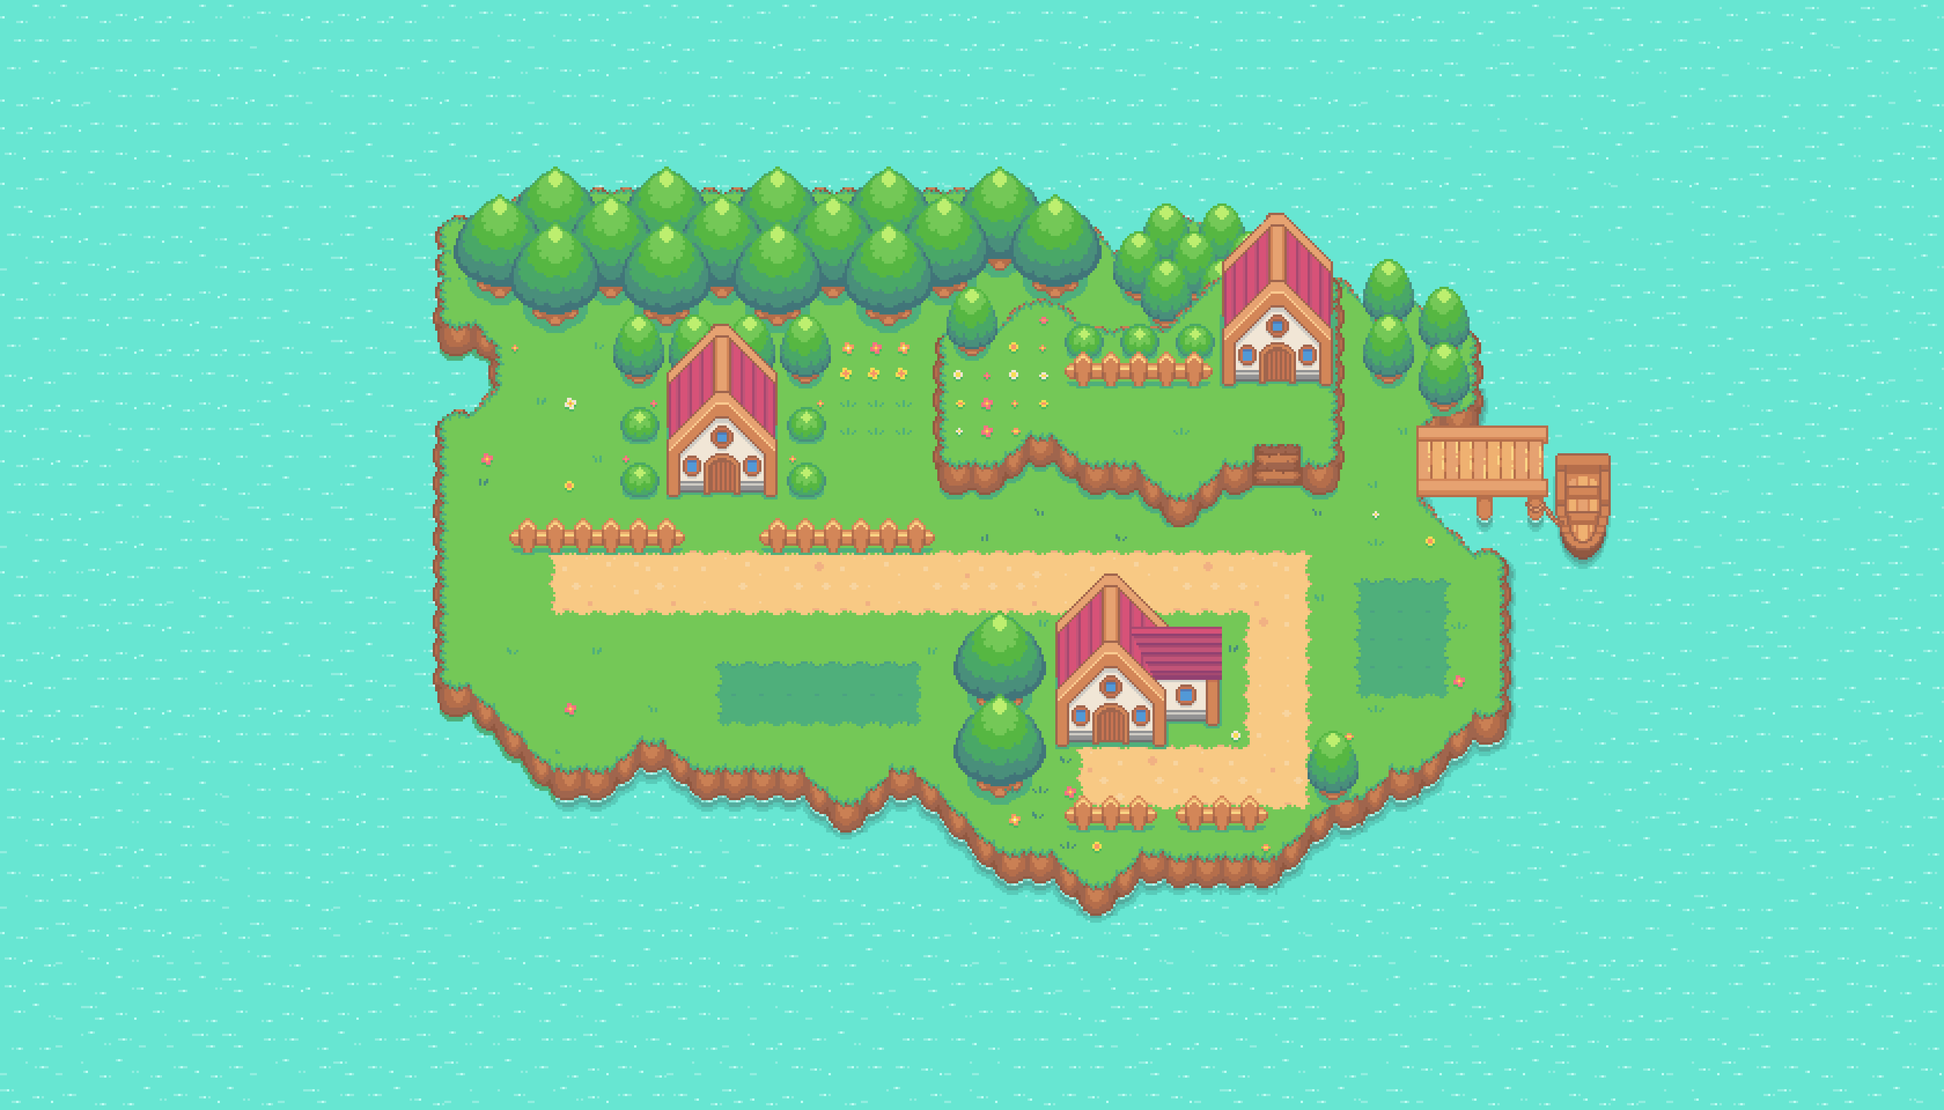
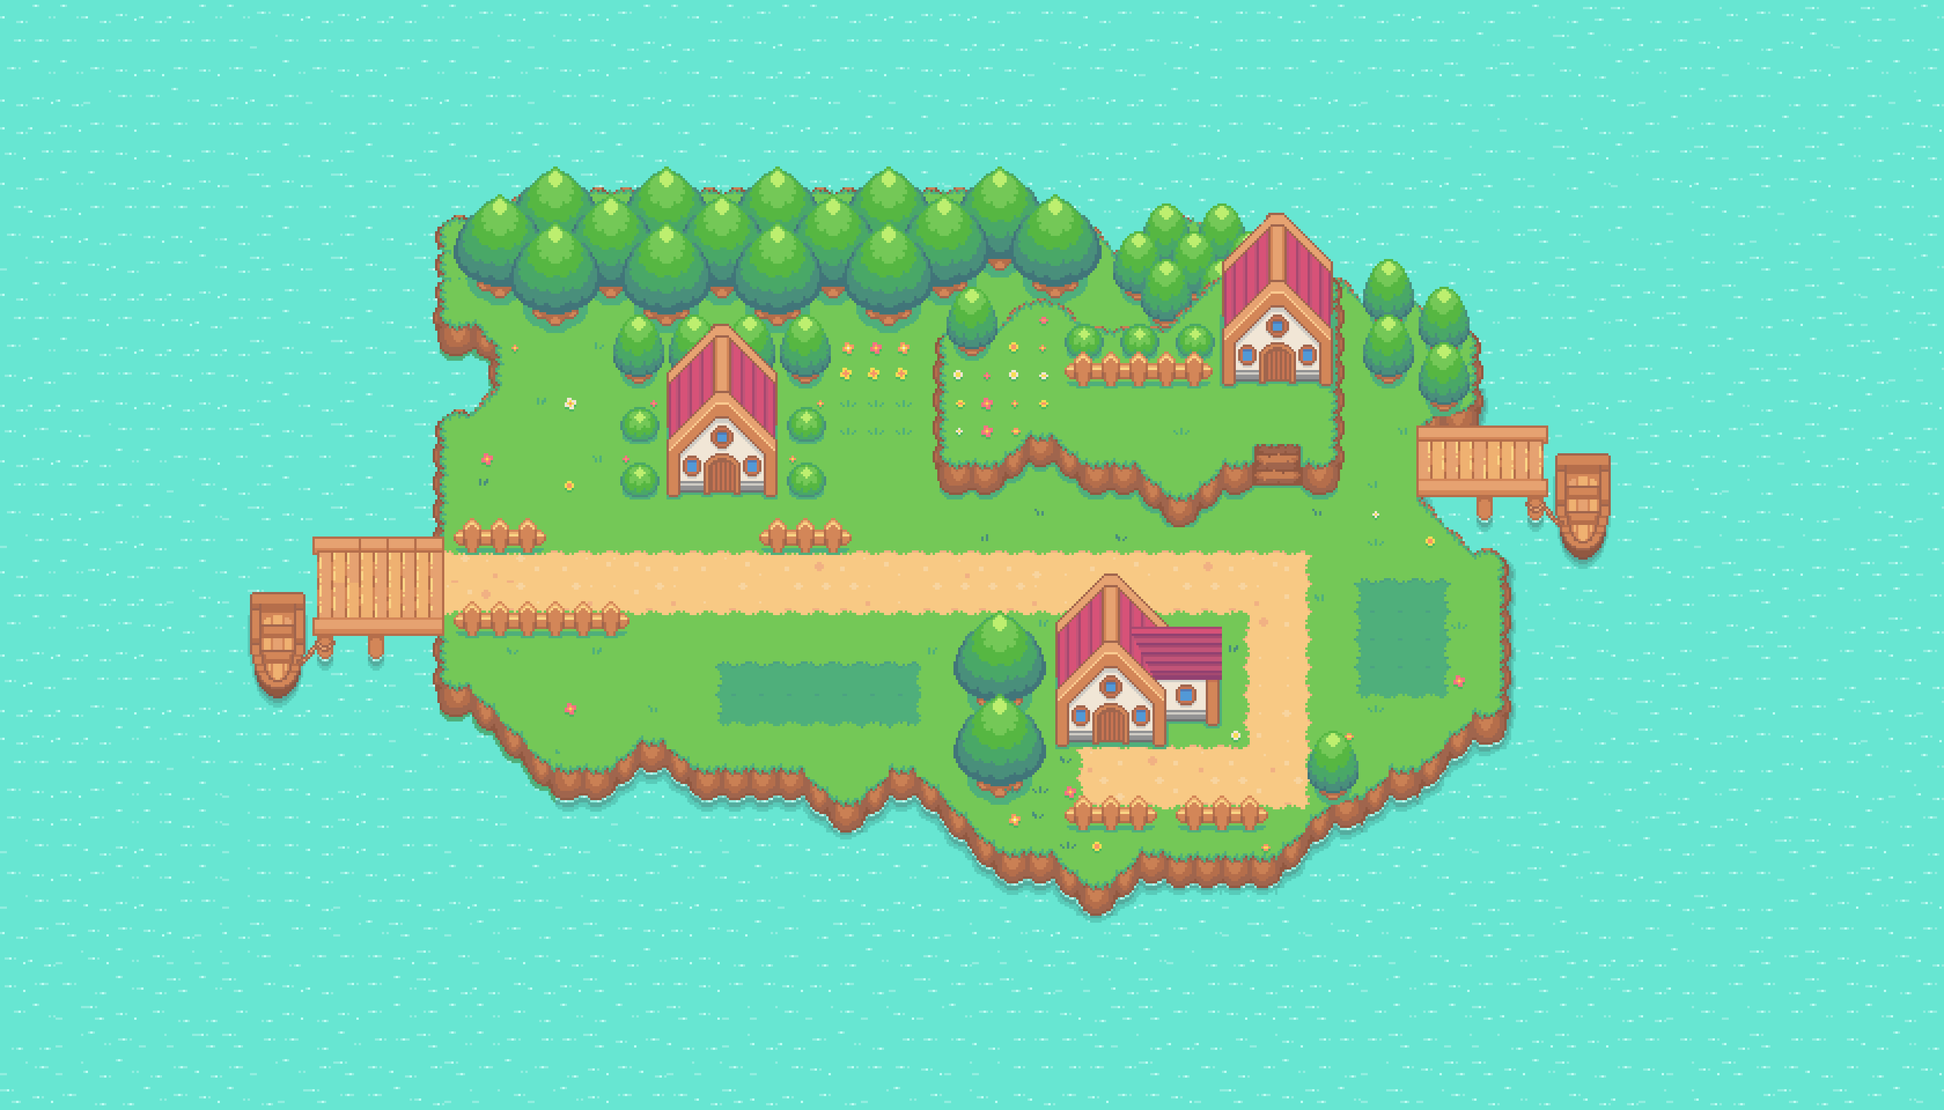
player moved to the dock

Changed region(s): [[0.125, 0.4688, 0.375, 0.6562], [0.4375, 0.4688, 0.5, 0.5]]

diff --git a/data/collisions.js b/data/collisions.js
@@ -1,1 +1,40 @@
-const collisions = [0, 0, 0, 0, 0, 0, 0, 0, 0, 0, 0, 0, 0, 0, 0, 0, 0, 0, 0, 0, 0, 0, 0, 0, 0, 0, 0, 0, 0, 0, 0, 0, 0, 0, 0, 0, 0, 0, 0, 0, 0, 0, 0, 0, 0, 0, 0, 0, 0, 0, 0, 0, 0, 0, 0, 0, 0, 0, 0, 0, 0, 0, 0, 0, 0, 0, 0, 0, 0, 0, 0, 0, 0, 0, 0, 0, 0, 0, 0, 0, 0, 0, 0, 0, 0, 0, 0, 0, 0, 0, 0, 0, 0, 0, 0, 0, 0, 0, 0, 0, 0, 0, 0, 0, 0, 0, 0, 0, 0, 0, 0, 0, 0, 0, 0, 0, 0, 0, 0, 0, 0, 0, 0, 0, 0, 0, 0, 0, 0, 0, 0, 0, 0, 0, 0, 0, 0, 0, 0, 0, 0, 0, 0, 0, 0, 0, 0, 0, 0, 0, 0, 0, 0, 0, 0, 0, 0, 0, 0, 0, 0, 0, 0, 0, 0, 0, 0, 0, 0, 0, 0, 0, 0, 0, 0, 0, 0, 0, 0, 0, 0, 0, 0, 0, 0, 0, 0, 0, 0, 0, 0, 0, 0, 0, 0, 0, 0, 0, 0, 0, 0, 0, 0, 0, 0, 0, 0, 0, 0, 0, 0, 0, 0, 0, 0, 0, 0, 0, 0, 0, 0, 0, 0, 0, 0, 0, 0, 0, 0, 0, 0, 0, 0, 0, 0, 0, 0, 0, 0, 0, 0, 0, 0, 0, 0, 0, 0, 0, 0, 0, 0, 0, 0, 0, 0, 0, 0, 0, 0, 0, 0, 0, 0, 0, 0, 0, 0, 0, 0, 0, 0, 0, 0, 0, 0, 0, 0, 0, 0, 0, 0, 0, 0, 0, 0, 0, 0, 0, 0, 0, 0, 0, 0, 0, 0, 0, 0, 0, 0, 0, 0, 0, 0, 0, 0, 0, 0, 0, 0, 0, 0, 0, 0, 0, 0, 0, 0, 0, 0, 0, 0, 0, 0, 0, 0, 0, 0, 0, 0, 0, 0, 0, 0, 0, 0, 0, 0, 0, 0, 0, 0, 0, 0, 0, 0, 0, 0, 0, 0, 0, 0, 0, 0, 0, 0, 0, 0, 0, 0, 0, 0, 0, 0, 0, 0, 0, 0, 0, 0, 0, 0, 0, 0, 0, 0, 0, 0, 0, 0, 0, 0, 0, 0, 0, 0, 0, 0, 0, 0, 0, 0, 0, 0, 0, 0, 0, 0, 0, 0, 0, 0, 0, 0, 0, 0, 0, 0, 0, 0, 0, 0, 0, 0, 0, 0, 0, 0, 0, 0, 0, 0, 0, 0, 0, 0, 0, 0, 0, 0, 0, 0, 0, 0, 0, 0, 0, 0, 0, 0, 0, 0, 0, 0, 0, 0, 0, 0, 0, 0, 0, 0, 0, 0, 0, 0, 0, 0, 0, 0, 0, 0, 0, 0, 0, 0, 0, 0, 0, 0, 0, 0, 0, 0, 0, 0, 0, 0, 0, 0, 0, 0, 0, 0, 0, 0, 0, 0, 0, 0, 0, 0, 0, 0, 0, 0, 0, 0, 0, 0, 0, 0, 0, 0, 0, 0, 0, 0, 0, 0, 0, 0, 0, 0, 0, 0, 0, 0, 0, 0, 0, 0, 0, 0, 0, 0, 0, 0, 0, 0, 0, 0, 0, 0, 0, 0, 0, 0, 0, 0, 0, 0, 0, 0, 0, 0, 0, 0, 0, 0, 0, 0, 0, 0, 0, 0, 0, 0, 0, 0, 0, 0, 0, 0, 0, 0, 0, 0, 0, 0, 0, 0, 0, 0, 0, 0, 0, 0, 0, 0, 0, 0, 0, 0, 0, 0, 0, 0, 0, 0, 0, 0, 0, 0, 0, 0, 0, 0, 0, 0, 0, 0, 0, 0, 0, 0, 0, 0, 0, 0, 0, 0, 0, 0, 0, 0, 0, 0, 0, 0, 0, 0, 0, 0, 0, 0, 0, 0, 0, 0, 0, 0, 0, 0, 0, 0, 0, 0, 0, 0, 0, 0, 0, 0, 0, 0, 0, 0, 0, 0, 0, 0, 0, 0, 0, 0, 0, 0, 0, 0, 0, 0, 0, 0, 0, 0, 0, 0, 0, 0, 0, 0, 0, 0, 0, 0, 0, 0, 0, 0, 0, 0, 0, 0, 0, 0, 0, 0, 0, 0, 0, 0, 0, 0, 0, 0, 0, 0, 0, 0, 0, 0, 0, 0, 0, 0, 0, 0, 0, 0, 0, 0, 0, 0, 0, 0, 1025, 1025, 1025, 1025, 0, 0, 1025, 0, 0, 0, 0, 0, 0, 0, 0, 1025, 0, 0, 0, 0, 0, 1025, 1025, 0, 0, 0, 0, 0, 0, 0, 0, 0, 0, 0, 0, 0, 0, 0, 0, 0, 0, 0, 0, 0, 0, 0, 0, 0, 0, 0, 0, 0, 0, 0, 0, 0, 0, 0, 0, 0, 0, 0, 0, 0, 0, 0, 0, 0, 0, 0, 1025, 0, 0, 0, 1025, 1025, 0, 1025, 0, 0, 0, 0, 0, 0, 1025, 0, 1025, 1025, 0, 0, 1025, 0, 0, 1025, 0, 0, 0, 0, 0, 0, 0, 0, 0, 0, 0, 0, 0, 0, 0, 0, 0, 0, 0, 0, 0, 0, 0, 0, 0, 0, 0, 0, 0, 0, 0, 0, 0, 0, 0, 0, 0, 0, 0, 0, 0, 0, 0, 0, 0, 0, 1025, 1025, 1025, 0, 0, 0, 0, 1025, 0, 0, 0, 0, 0, 0, 1025, 0, 0, 0, 1025, 1025, 1025, 0, 0, 1025, 0, 0, 0, 0, 0, 0, 0, 0, 0, 0, 0, 0, 0, 0, 0, 0, 0, 0, 0, 0, 0, 0, 0, 0, 0, 0, 0, 0, 0, 0, 0, 0, 0, 0, 0, 0, 0, 0, 0, 0, 0, 0, 0, 0, 0, 0, 0, 0, 1025, 0, 0, 0, 0, 1025, 0, 0, 0, 0, 0, 0, 1025, 0, 0, 0, 1025, 0, 0, 0, 0, 1025, 1025, 1025, 1025, 1025, 1025, 1025, 1025, 1025, 1025, 0, 1025, 1025, 0, 0, 0, 0, 0, 0, 0, 0, 0, 0, 0, 0, 0, 0, 0, 0, 0, 0, 0, 0, 0, 0, 0, 0, 0, 0, 0, 0, 0, 0, 0, 0, 0, 0, 0, 1025, 1025, 0, 0, 0, 0, 1025, 0, 0, 0, 0, 0, 0, 1025, 0, 0, 0, 1025, 0, 0, 0, 0, 0, 0, 0, 0, 0, 0, 0, 0, 0, 0, 1025, 0, 0, 1025, 0, 0, 0, 0, 0, 0, 0, 0, 0, 0, 0, 0, 0, 0, 0, 0, 0, 0, 0, 0, 0, 0, 0, 0, 0, 0, 0, 0, 0, 0, 0, 0, 0, 1025, 0, 0, 0, 0, 0, 0, 1025, 0, 0, 0, 0, 0, 0, 1025, 0, 0, 0, 1025, 0, 0, 0, 0, 0, 0, 0, 0, 0, 0, 0, 0, 0, 0, 1025, 0, 0, 1025, 1025, 1025, 1025, 0, 0, 0, 0, 0, 0, 0, 0, 0, 0, 0, 0, 0, 0, 0, 0, 0, 0, 0, 0, 0, 0, 0, 0, 0, 0, 0, 0, 0, 0, 1025, 0, 0, 0, 0, 0, 0, 1025, 0, 0, 0, 0, 0, 0, 1025, 0, 0, 0, 1025, 0, 0, 1025, 1025, 1025, 0, 0, 0, 0, 0, 0, 0, 0, 0, 1025, 0, 0, 0, 0, 0, 0, 1025, 0, 0, 0, 0, 0, 0, 0, 0, 0, 0, 0, 0, 0, 0, 0, 0, 0, 0, 0, 0, 0, 0, 0, 0, 0, 0, 0, 0, 0, 1025, 0, 0, 0, 0, 0, 0, 1025, 1025, 1025, 1025, 1025, 1025, 1025, 1025, 0, 0, 0, 0, 1025, 1025, 0, 0, 0, 1025, 1025, 1025, 0, 1025, 1025, 0, 0, 1025, 0, 0, 0, 0, 0, 0, 0, 1025, 0, 0, 0, 0, 0, 0, 0, 0, 0, 0, 0, 0, 0, 0, 0, 0, 0, 0, 0, 0, 0, 0, 0, 0, 0, 0, 0, 0, 0, 1025, 0, 0, 0, 0, 0, 0, 0, 0, 0, 0, 0, 0, 0, 0, 0, 0, 0, 0, 0, 0, 0, 0, 0, 0, 0, 0, 1025, 0, 0, 0, 0, 0, 0, 0, 0, 0, 1025, 1025, 1025, 0, 0, 0, 0, 0, 0, 0, 0, 0, 0, 0, 0, 0, 0, 0, 0, 0, 0, 0, 0, 0, 0, 0, 0, 0, 0, 0, 0, 0, 0, 1025, 0, 0, 0, 0, 0, 0, 1025, 1025, 1025, 0, 0, 1025, 1025, 1025, 0, 0, 0, 0, 0, 0, 0, 0, 0, 0, 0, 0, 0, 0, 0, 0, 0, 0, 0, 0, 0, 0, 0, 1025, 0, 0, 0, 0, 0, 0, 0, 0, 0, 0, 0, 0, 0, 0, 0, 0, 0, 0, 0, 0, 0, 0, 0, 0, 0, 0, 0, 0, 0, 0, 0, 1025, 0, 0, 0, 0, 0, 0, 0, 0, 0, 0, 0, 0, 0, 0, 0, 0, 0, 0, 0, 0, 0, 0, 0, 0, 0, 0, 0, 0, 0, 0, 0, 0, 0, 0, 0, 0, 0, 0, 1025, 0, 0, 0, 0, 0, 0, 0, 0, 0, 0, 0, 0, 0, 0, 0, 0, 0, 0, 0, 0, 0, 0, 0, 0, 0, 0, 0, 0, 0, 0, 1025, 0, 0, 0, 0, 0, 0, 0, 0, 0, 0, 0, 0, 0, 0, 0, 0, 0, 0, 0, 0, 0, 0, 0, 0, 0, 0, 0, 0, 0, 0, 0, 0, 0, 0, 0, 0, 0, 0, 1025, 0, 0, 0, 0, 0, 0, 0, 0, 0, 0, 0, 0, 0, 0, 0, 0, 0, 0, 0, 0, 0, 0, 0, 0, 0, 0, 0, 0, 0, 0, 1025, 0, 0, 0, 0, 0, 0, 0, 0, 0, 0, 0, 0, 0, 0, 0, 0, 0, 0, 0, 0, 0, 0, 1025, 1025, 1025, 1025, 0, 0, 0, 0, 0, 0, 0, 0, 0, 0, 0, 0, 1025, 0, 0, 0, 0, 0, 0, 0, 0, 0, 0, 0, 0, 0, 0, 0, 0, 0, 0, 0, 0, 0, 0, 0, 0, 0, 0, 0, 0, 0, 0, 1025, 0, 0, 0, 0, 0, 0, 0, 0, 0, 0, 0, 0, 0, 0, 0, 0, 0, 0, 0, 1025, 1025, 1025, 0, 0, 0, 1025, 1025, 1025, 0, 0, 0, 0, 0, 0, 0, 0, 0, 0, 1025, 0, 0, 0, 0, 0, 0, 0, 0, 0, 0, 0, 0, 0, 0, 0, 0, 0, 0, 0, 0, 0, 0, 0, 0, 0, 0, 0, 0, 0, 0, 1025, 0, 0, 0, 0, 0, 0, 0, 0, 0, 0, 0, 0, 0, 0, 0, 0, 0, 0, 0, 1025, 1025, 0, 0, 0, 0, 0, 0, 1025, 0, 0, 0, 0, 0, 0, 0, 0, 0, 0, 1025, 0, 0, 0, 0, 0, 0, 0, 0, 0, 0, 0, 0, 0, 0, 0, 0, 0, 0, 0, 0, 0, 0, 0, 0, 0, 0, 0, 0, 0, 0, 0, 1025, 1025, 0, 0, 0, 0, 0, 0, 0, 0, 0, 0, 0, 0, 0, 0, 0, 0, 0, 1025, 1025, 0, 0, 0, 0, 1025, 1025, 1025, 0, 0, 0, 0, 0, 0, 0, 0, 0, 0, 1025, 0, 0, 0, 0, 0, 0, 0, 0, 0, 0, 0, 0, 0, 0, 0, 0, 0, 0, 0, 0, 0, 0, 0, 0, 0, 0, 0, 0, 0, 0, 0, 0, 0, 1025, 0, 0, 0, 0, 0, 0, 0, 0, 0, 0, 0, 0, 0, 0, 0, 0, 1025, 1025, 0, 1025, 1025, 1025, 1025, 0, 0, 0, 0, 0, 0, 0, 0, 0, 0, 1025, 1025, 0, 0, 0, 0, 0, 0, 0, 0, 0, 0, 0, 0, 0, 0, 0, 0, 0, 0, 0, 0, 0, 0, 0, 0, 0, 0, 0, 0, 0, 0, 0, 0, 0, 0, 0, 1025, 0, 0, 1025, 1025, 1025, 0, 0, 0, 0, 0, 0, 0, 0, 0, 0, 1025, 1025, 0, 0, 0, 0, 0, 0, 0, 0, 0, 0, 1025, 1025, 0, 0, 1025, 0, 0, 0, 0, 0, 0, 0, 0, 0, 0, 0, 0, 0, 0, 0, 0, 0, 0, 0, 0, 0, 0, 0, 0, 0, 0, 0, 0, 0, 0, 0, 0, 0, 0, 0, 0, 0, 0, 1025, 1025, 0, 0, 0, 1025, 1025, 1025, 1025, 1025, 0, 1025, 1025, 1025, 0, 1025, 1025, 0, 0, 0, 0, 0, 0, 0, 0, 0, 0, 1025, 0, 1025, 1025, 0, 0, 0, 0, 0, 0, 0, 0, 0, 0, 0, 0, 0, 0, 0, 0, 0, 0, 0, 0, 0, 0, 0, 0, 0, 0, 0, 0, 0, 0, 0, 0, 0, 0, 0, 0, 0, 0, 0, 0, 0, 0, 0, 0, 0, 0, 0, 0, 0, 1025, 0, 0, 0, 1025, 0, 0, 0, 1025, 1025, 1025, 1025, 1025, 1025, 1025, 1025, 0, 1025, 0, 0, 0, 0, 0, 0, 0, 0, 0, 0, 0, 0, 0, 0, 0, 0, 0, 0, 0, 0, 0, 0, 0, 0, 0, 0, 0, 0, 0, 0, 0, 0, 0, 0, 0, 0, 0, 0, 0, 0, 0, 0, 0, 0, 0, 0, 0, 0, 0, 0, 0, 0, 0, 0, 0, 0, 0, 1025, 0, 0, 0, 0, 0, 0, 0, 0, 0, 0, 1025, 0, 0, 0, 0, 0, 0, 0, 0, 0, 0, 0, 0, 0, 0, 0, 0, 0, 0, 0, 0, 0, 0, 0, 0, 0, 0, 0, 0, 0, 0, 0, 0, 0, 0, 0, 0, 0, 0, 0, 0, 0, 0, 0, 0, 0, 0, 0, 0, 0, 0, 0, 0, 0, 0, 0, 0, 0, 0, 0, 1025, 1025, 1025, 0, 1025, 1025, 1025, 1025, 1025, 1025, 0, 0, 0, 0, 0, 0, 0, 0, 0, 0, 0, 0, 0, 0, 0, 0, 0, 0, 0, 0, 0, 0, 0, 0, 0, 0, 0, 0, 0, 0, 0, 0, 0, 0, 0, 0, 0, 0, 0, 0, 0, 0, 0, 0, 0, 0, 0, 0, 0, 0, 0, 0, 0, 0, 0, 0, 0, 0, 0, 0, 0, 0, 0, 1025, 0, 0, 0, 0, 0, 0, 0, 0, 0, 0, 0, 0, 0, 0, 0, 0, 0, 0, 0, 0, 0, 0, 0, 0, 0, 0, 0, 0, 0, 0, 0, 0, 0, 0, 0, 0, 0, 0, 0, 0, 0, 0, 0, 0, 0, 0, 0, 0, 0, 0, 0, 0, 0, 0, 0, 0, 0, 0, 0, 0, 0, 0, 0, 0, 0, 0, 0, 0, 0, 0, 0, 0, 0, 0, 0, 0, 0, 0, 0, 0, 0, 0, 0, 0, 0, 0, 0, 0, 0, 0, 0, 0, 0, 0, 0, 0, 0, 0, 0, 0, 0, 0, 0, 0, 0, 0, 0, 0, 0, 0, 0, 0, 0, 0, 0, 0, 0, 0, 0, 0, 0, 0, 0, 0, 0, 0, 0, 0, 0, 0, 0, 0, 0, 0, 0, 0, 0, 0, 0, 0, 0, 0, 0, 0, 0, 0, 0, 0, 0, 0, 0, 0, 0, 0, 0, 0, 0, 0, 0, 0, 0, 0, 0, 0, 0, 0, 0, 0, 0, 0, 0, 0, 0, 0, 0, 0, 0, 0, 0, 0, 0, 0, 0, 0, 0, 0, 0, 0, 0, 0, 0, 0, 0, 0, 0, 0, 0, 0, 0, 0, 0, 0, 0, 0, 0, 0, 0, 0, 0, 0, 0, 0, 0, 0, 0, 0, 0, 0, 0, 0, 0, 0, 0, 0, 0, 0, 0, 0, 0, 0, 0, 0, 0, 0, 0, 0, 0, 0, 0, 0, 0, 0, 0, 0, 0, 0, 0, 0, 0, 0, 0, 0, 0, 0, 0, 0, 0, 0, 0, 0, 0, 0, 0, 0, 0, 0, 0, 0, 0, 0, 0, 0, 0, 0, 0, 0, 0, 0, 0, 0, 0, 0, 0, 0, 0, 0, 0, 0, 0, 0, 0, 0, 0, 0, 0, 0, 0, 0, 0, 0, 0, 0, 0, 0, 0, 0, 0, 0, 0, 0, 0, 0, 0, 0, 0, 0, 0, 0, 0, 0, 0, 0, 0, 0, 0, 0, 0, 0, 0, 0, 0, 0, 0, 0, 0, 0, 0, 0, 0, 0, 0, 0, 0, 0, 0, 0, 0, 0, 0, 0, 0, 0, 0, 0, 0, 0, 0, 0, 0, 0, 0, 0, 0, 0, 0, 0, 0, 0, 0, 0, 0, 0, 0, 0, 0, 0, 0, 0, 0, 0, 0, 0, 0, 0, 0, 0, 0, 0, 0, 0, 0, 0, 0, 0, 0, 0, 0, 0, 0, 0, 0, 0, 0, 0, 0, 0, 0, 0, 0, 0, 0, 0, 0, 0, 0, 0, 0, 0, 0, 0, 0, 0, 0, 0, 0, 0, 0, 0, 0, 0, 0, 0, 0, 0, 0, 0, 0, 0, 0, 0, 0, 0, 0, 0, 0, 0, 0, 0, 0, 0, 0, 0, 0, 0, 0, 0, 0, 0, 0, 0, 0, 0, 0, 0, 0, 0, 0, 0, 0, 0, 0, 0, 0, 0, 0, 0, 0, 0, 0, 0, 0, 0, 0, 0, 0, 0, 0, 0, 0, 0, 0, 0, 0, 0, 0, 0, 0, 0, 0, 0, 0, 0, 0, 0, 0, 0, 0, 0, 0, 0, 0, 0, 0, 0, 0, 0, 0, 0, 0, 0]
+const collisions = [0, 0, 0, 0, 0, 0, 0, 0, 0, 0, 0, 0, 0, 0, 0, 0, 0, 0, 0, 0, 0, 0, 0, 0, 0, 0, 0, 0, 0, 0, 0, 0, 0, 0, 0, 0, 0, 0, 0, 0, 0, 0, 0, 0, 0, 0, 0, 0, 0, 0, 0, 0, 0, 0, 0, 0, 0, 0, 0, 0, 0, 0, 0, 0, 0, 0, 0, 0, 0, 0,
+    0, 0, 0, 0, 0, 0, 0, 0, 0, 0, 0, 0, 0, 0, 0, 0, 0, 0, 0, 0, 0, 0, 0, 0, 0, 0, 0, 0, 0, 0, 0, 0, 0, 0, 0, 0, 0, 0, 0, 0, 0, 0, 0, 0, 0, 0, 0, 0, 0, 0, 0, 0, 0, 0, 0, 0, 0, 0, 0, 0, 0, 0, 0, 0, 0, 0, 0, 0, 0, 0,
+    0, 0, 0, 0, 0, 0, 0, 0, 0, 0, 0, 0, 0, 0, 0, 0, 0, 0, 0, 0, 0, 0, 0, 0, 0, 0, 0, 0, 0, 0, 0, 0, 0, 0, 0, 0, 0, 0, 0, 0, 0, 0, 0, 0, 0, 0, 0, 0, 0, 0, 0, 0, 0, 0, 0, 0, 0, 0, 0, 0, 0, 0, 0, 0, 0, 0, 0, 0, 0, 0,
+    0, 0, 0, 0, 0, 0, 0, 0, 0, 0, 0, 0, 0, 0, 0, 0, 0, 0, 0, 0, 0, 0, 0, 0, 0, 0, 0, 0, 0, 0, 0, 0, 0, 0, 0, 0, 0, 0, 0, 0, 0, 0, 0, 0, 0, 0, 0, 0, 0, 0, 0, 0, 0, 0, 0, 0, 0, 0, 0, 0, 0, 0, 0, 0, 0, 0, 0, 0, 0, 0,
+    0, 0, 0, 0, 0, 0, 0, 0, 0, 0, 0, 0, 0, 0, 0, 0, 0, 0, 0, 0, 0, 0, 0, 0, 0, 0, 0, 0, 0, 0, 0, 0, 0, 0, 0, 0, 0, 0, 0, 0, 0, 0, 0, 0, 0, 0, 0, 0, 0, 0, 0, 0, 0, 0, 0, 0, 0, 0, 0, 0, 0, 0, 0, 0, 0, 0, 0, 0, 0, 0,
+    0, 0, 0, 0, 0, 0, 0, 0, 0, 0, 0, 0, 0, 0, 0, 0, 0, 0, 0, 0, 0, 0, 0, 0, 0, 0, 0, 0, 0, 0, 0, 0, 0, 0, 0, 0, 0, 0, 0, 0, 0, 0, 0, 0, 0, 0, 0, 0, 0, 0, 0, 0, 0, 0, 0, 0, 0, 0, 0, 0, 0, 0, 0, 0, 0, 0, 0, 0, 0, 0,
+    0, 0, 0, 0, 0, 0, 0, 0, 0, 0, 0, 0, 0, 0, 0, 0, 0, 0, 0, 0, 0, 0, 0, 0, 0, 0, 0, 0, 0, 0, 0, 0, 0, 0, 0, 0, 0, 0, 0, 0, 0, 0, 0, 0, 0, 0, 0, 0, 0, 0, 0, 0, 0, 0, 0, 0, 0, 0, 0, 0, 0, 0, 0, 0, 0, 0, 0, 0, 0, 0,
+    0, 0, 0, 0, 0, 0, 0, 0, 0, 0, 0, 0, 0, 0, 0, 0, 0, 0, 0, 0, 0, 0, 0, 0, 0, 0, 0, 0, 0, 0, 0, 0, 0, 0, 0, 0, 0, 0, 0, 0, 0, 0, 0, 0, 0, 0, 0, 0, 0, 0, 0, 0, 0, 0, 0, 0, 0, 0, 0, 0, 0, 0, 0, 0, 0, 0, 0, 0, 0, 0,
+    0, 0, 0, 0, 0, 0, 0, 0, 0, 0, 0, 0, 0, 0, 0, 0, 0, 0, 0, 0, 0, 0, 0, 0, 0, 0, 0, 0, 0, 0, 0, 0, 0, 0, 0, 0, 0, 0, 0, 0, 0, 0, 0, 0, 0, 0, 0, 0, 0, 0, 0, 0, 0, 0, 0, 0, 0, 0, 0, 0, 0, 0, 0, 0, 0, 0, 0, 0, 0, 0,
+    0, 0, 0, 0, 0, 0, 0, 0, 0, 0, 0, 0, 0, 0, 0, 0, 0, 0, 0, 0, 0, 0, 0, 0, 0, 0, 0, 0, 0, 0, 0, 0, 0, 0, 0, 0, 0, 0, 0, 0, 0, 0, 0, 0, 0, 0, 0, 0, 0, 0, 0, 0, 0, 0, 0, 0, 0, 0, 0, 0, 0, 0, 0, 0, 0, 0, 0, 0, 0, 0,
+    0, 0, 0, 0, 0, 0, 0, 0, 0, 0, 0, 0, 0, 0, 0, 1025, 1025, 1025, 1025, 0, 0, 1025, 0, 0, 0, 0, 0, 0, 0, 0, 1025, 0, 0, 0, 0, 0, 1025, 1025, 0, 0, 0, 0, 0, 0, 0, 0, 0, 0, 0, 0, 0, 0, 0, 0, 0, 0, 0, 0, 0, 0, 0, 0, 0, 0, 0, 0, 0, 0, 0, 0,
+    0, 0, 0, 0, 0, 0, 0, 0, 0, 0, 0, 0, 0, 0, 0, 1025, 0, 0, 0, 1025, 1025, 0, 1025, 0, 0, 0, 0, 0, 0, 1025, 0, 1025, 1025, 0, 0, 1025, 0, 0, 1025, 0, 0, 0, 0, 0, 0, 0, 0, 0, 0, 0, 0, 0, 0, 0, 0, 0, 0, 0, 0, 0, 0, 0, 0, 0, 0, 0, 0, 0, 0, 0,
+    0, 0, 0, 0, 0, 0, 0, 0, 0, 0, 0, 0, 0, 0, 0, 1025, 1025, 1025, 0, 0, 0, 0, 1025, 0, 0, 0, 0, 0, 0, 1025, 0, 0, 0, 1025, 1025, 1025, 0, 0, 1025, 0, 0, 0, 0, 0, 0, 0, 0, 0, 0, 0, 0, 0, 0, 0, 0, 0, 0, 0, 0, 0, 0, 0, 0, 0, 0, 0, 0, 0, 0, 0,
+    0, 0, 0, 0, 0, 0, 0, 0, 0, 0, 0, 0, 0, 0, 0, 0, 0, 1025, 0, 0, 0, 0, 1025, 0, 0, 0, 0, 0, 0, 1025, 0, 0, 0, 1025, 0, 0, 0, 0, 1025, 1025, 1025, 1025, 1025, 1025, 1025, 1025, 1025, 1025, 0, 1025, 1025, 0, 0, 0, 0, 0, 0, 0, 0, 0, 0, 0, 0, 0, 0, 0, 0, 0, 0, 0,
+    0, 0, 0, 0, 0, 0, 0, 0, 0, 0, 0, 0, 0, 0, 0, 0, 1025, 1025, 0, 0, 0, 0, 1025, 0, 0, 0, 0, 0, 0, 1025, 0, 0, 0, 1025, 0, 0, 0, 0, 0, 0, 0, 0, 0, 0, 0, 0, 0, 0, 1025, 0, 0, 1025, 0, 0, 0, 0, 0, 0, 0, 0, 0, 0, 0, 0, 0, 0, 0, 0, 0, 0,
+    0, 0, 0, 0, 0, 0, 0, 0, 0, 0, 0, 0, 0, 0, 0, 1025, 0, 0, 0, 0, 0, 0, 1025, 0, 0, 0, 0, 0, 0, 1025, 0, 0, 0, 1025, 0, 0, 0, 0, 0, 0, 0, 0, 0, 0, 0, 0, 0, 0, 1025, 0, 0, 1025, 1025, 1025, 1025, 0, 0, 0, 0, 0, 0, 0, 0, 0, 0, 0, 0, 0, 0, 0,
+    0, 0, 0, 0, 0, 0, 0, 0, 0, 0, 0, 0, 0, 0, 0, 1025, 0, 0, 0, 0, 0, 0, 1025, 0, 0, 0, 0, 0, 0, 1025, 0, 0, 0, 1025, 0, 0, 1025, 1025, 1025, 0, 0, 0, 0, 0, 0, 0, 0, 0, 1025, 0, 0, 0, 0, 0, 0, 1025, 0, 0, 0, 0, 0, 0, 0, 0, 0, 0, 0, 0, 0, 0,
+    0, 0, 0, 0, 0, 0, 0, 0, 0, 0, 0, 0, 0, 0, 0, 1025, 0, 0, 0, 0, 0, 0, 1025, 1025, 1025, 1025, 1025, 1025, 1025, 1025, 0, 0, 0, 0, 1025, 1025, 0, 0, 0, 1025, 1025, 1025, 0, 1025, 1025, 0, 0, 1025, 0, 0, 0, 0, 0, 0, 0, 1025, 0, 0, 0, 0, 0, 0, 0, 0, 0, 0, 0, 0, 0, 0,
+    0, 0, 0, 0, 0, 0, 0, 0, 0, 0, 0, 0, 0, 0, 0, 1025, 0, 0, 0, 0, 0, 0, 0, 0, 0, 0, 0, 0, 0, 0, 0, 0, 0, 0, 0, 0, 0, 0, 0, 0, 0, 0, 1025, 0, 0, 0, 0, 0, 0, 0, 0, 0, 1025, 1025, 1025, 0, 0, 0, 0, 0, 0, 0, 0, 0, 0, 0, 0, 0, 0, 0,
+    0, 0, 0, 0, 0, 0, 0, 0, 0, 0, 0, 1234, 1025, 1025, 1025, 1025, 1025, 1025, 1025, 1025, 1202, 1322, 1322, 1322, 1322, 0, 0, 1025, 1025, 1025, 1025, 1322, 1322, 1322, 0, 0, 0, 0, 0, 0, 0, 0, 0, 0, 0, 0, 0, 0, 0, 0, 0, 0, 0, 1025, 0, 0, 0, 0, 0, 0, 0, 0, 0, 0, 0, 0, 0, 0, 0, 0,
+    0, 0, 0, 0, 0, 0, 0, 0, 0, 0, 0, 1025, 0, 0, 0, 1202, 0, 0, 0, 0, 0, 0, 0, 0, 0, 0, 0, 0, 0, 0, 0, 0, 0, 0, 0, 0, 0, 0, 0, 0, 0, 0, 0, 0, 0, 0, 0, 0, 0, 0, 0, 0, 0, 0, 1025, 0, 0, 0, 0, 0, 0, 0, 0, 0, 0, 0, 0, 0, 0, 0,
+    0, 0, 0, 0, 0, 0, 0, 0, 0, 0, 0, 1025, 0, 0, 0, 1202, 0, 0, 0, 0, 0, 0, 0, 0, 0, 0, 0, 0, 0, 0, 0, 0, 0, 0, 0, 0, 0, 0, 0, 0, 0, 0, 0, 0, 0, 0, 0, 0, 0, 0, 0, 0, 0, 0, 1025, 0, 0, 0, 0, 0, 0, 0, 0, 0, 0, 0, 0, 0, 0, 0,
+    0, 0, 0, 0, 0, 0, 0, 0, 0, 0, 0, 1025, 1234, 1234, 1234, 1234, 1025, 1025, 1025, 1025, 1025, 1025, 1025, 0, 0, 0, 0, 0, 0, 0, 0, 0, 0, 0, 0, 0, 0, 0, 1025, 1025, 1025, 1025, 0, 0, 0, 0, 0, 0, 0, 0, 0, 0, 0, 0, 1025, 0, 0, 0, 0, 0, 0, 0, 0, 0, 0, 0, 0, 0, 0, 0,
+    0, 0, 0, 0, 0, 0, 0, 0, 0, 0, 0, 0, 1025, 1025, 1025, 1025, 0, 0, 0, 0, 0, 0, 0, 0, 0, 0, 0, 0, 0, 0, 0, 0, 0, 0, 0, 1025, 1025, 1025, 0, 0, 0, 1025, 1025, 1025, 0, 0, 0, 0, 0, 0, 0, 0, 0, 0, 1025, 0, 0, 0, 0, 0, 0, 0, 0, 0, 0, 0, 0, 0, 0, 0,
+    0, 0, 0, 0, 0, 0, 0, 0, 0, 0, 0, 0, 0, 0, 0, 1025, 0, 0, 0, 0, 0, 0, 0, 0, 0, 0, 0, 0, 0, 0, 0, 0, 0, 0, 0, 1025, 1025, 0, 0, 0, 0, 0, 0, 1025, 0, 0, 0, 0, 0, 0, 0, 0, 0, 0, 1025, 0, 0, 0, 0, 0, 0, 0, 0, 0, 0, 0, 0, 0, 0, 0,
+    0, 0, 0, 0, 0, 0, 0, 0, 0, 0, 0, 0, 0, 0, 0, 0, 1025, 1025, 0, 0, 0, 0, 0, 0, 0, 0, 0, 0, 0, 0, 0, 0, 0, 0, 0, 1025, 1025, 0, 0, 0, 0, 1025, 1025, 1025, 0, 0, 0, 0, 0, 0, 0, 0, 0, 0, 1025, 0, 0, 0, 0, 0, 0, 0, 0, 0, 0, 0, 0, 0, 0, 0,
+    0, 0, 0, 0, 0, 0, 0, 0, 0, 0, 0, 0, 0, 0, 0, 0, 0, 0, 1025, 0, 0, 0, 0, 0, 0, 0, 0, 0, 0, 0, 0, 0, 0, 0, 0, 1025, 1025, 0, 1025, 1025, 1025, 1025, 0, 0, 0, 0, 0, 0, 0, 0, 0, 0, 1025, 1025, 0, 0, 0, 0, 0, 0, 0, 0, 0, 0, 0, 0, 0, 0, 0, 0,
+    0, 0, 0, 0, 0, 0, 0, 0, 0, 0, 0, 0, 0, 0, 0, 0, 0, 0, 0, 1025, 0, 0, 1025, 1025, 1025, 0, 0, 0, 0, 0, 0, 0, 0, 0, 0, 1025, 1025, 0, 0, 0, 0, 0, 0, 0, 0, 0, 0, 1025, 1025, 0, 0, 1025, 0, 0, 0, 0, 0, 0, 0, 0, 0, 0, 0, 0, 0, 0, 0, 0, 0, 0,
+    0, 0, 0, 0, 0, 0, 0, 0, 0, 0, 0, 0, 0, 0, 0, 0, 0, 0, 0, 0, 1025, 1025, 0, 0, 0, 1025, 1025, 1025, 1025, 1025, 0, 1025, 1025, 1025, 0, 1025, 1025, 0, 0, 0, 0, 0, 0, 0, 0, 0, 0, 1025, 0, 1025, 1025, 0, 0, 0, 0, 0, 0, 0, 0, 0, 0, 0, 0, 0, 0, 0, 0, 0, 0, 0,
+    0, 0, 0, 0, 0, 0, 0, 0, 0, 0, 0, 0, 0, 0, 0, 0, 0, 0, 0, 0, 0, 0, 0, 0, 0, 0, 0, 0, 0, 0, 1025, 0, 0, 0, 1025, 0, 0, 0, 1025, 1025, 1025, 1025, 1025, 1025, 1025, 1025, 0, 1025, 0, 0, 0, 0, 0, 0, 0, 0, 0, 0, 0, 0, 0, 0, 0, 0, 0, 0, 0, 0, 0, 0,
+    0, 0, 0, 0, 0, 0, 0, 0, 0, 0, 0, 0, 0, 0, 0, 0, 0, 0, 0, 0, 0, 0, 0, 0, 0, 0, 0, 0, 0, 0, 0, 0, 0, 0, 0, 1025, 0, 0, 0, 0, 0, 0, 0, 0, 0, 0, 1025, 0, 0, 0, 0, 0, 0, 0, 0, 0, 0, 0, 0, 0, 0, 0, 0, 0, 0, 0, 0, 0, 0, 0,
+    0, 0, 0, 0, 0, 0, 0, 0, 0, 0, 0, 0, 0, 0, 0, 0, 0, 0, 0, 0, 0, 0, 0, 0, 0, 0, 0, 0, 0, 0, 0, 0, 0, 0, 0, 0, 1025, 1025, 1025, 0, 1025, 1025, 1025, 1025, 1025, 1025, 0, 0, 0, 0, 0, 0, 0, 0, 0, 0, 0, 0, 0, 0, 0, 0, 0, 0, 0, 0, 0, 0, 0, 0,
+    0, 0, 0, 0, 0, 0, 0, 0, 0, 0, 0, 0, 0, 0, 0, 0, 0, 0, 0, 0, 0, 0, 0, 0, 0, 0, 0, 0, 0, 0, 0, 0, 0, 0, 0, 0, 0, 0, 0, 1025, 0, 0, 0, 0, 0, 0, 0, 0, 0, 0, 0, 0, 0, 0, 0, 0, 0, 0, 0, 0, 0, 0, 0, 0, 0, 0, 0, 0, 0, 0,
+    0, 0, 0, 0, 0, 0, 0, 0, 0, 0, 0, 0, 0, 0, 0, 0, 0, 0, 0, 0, 0, 0, 0, 0, 0, 0, 0, 0, 0, 0, 0, 0, 0, 0, 0, 0, 0, 0, 0, 0, 0, 0, 0, 0, 0, 0, 0, 0, 0, 0, 0, 0, 0, 0, 0, 0, 0, 0, 0, 0, 0, 0, 0, 0, 0, 0, 0, 0, 0, 0,
+    0, 0, 0, 0, 0, 0, 0, 0, 0, 0, 0, 0, 0, 0, 0, 0, 0, 0, 0, 0, 0, 0, 0, 0, 0, 0, 0, 0, 0, 0, 0, 0, 0, 0, 0, 0, 0, 0, 0, 0, 0, 0, 0, 0, 0, 0, 0, 0, 0, 0, 0, 0, 0, 0, 0, 0, 0, 0, 0, 0, 0, 0, 0, 0, 0, 0, 0, 0, 0, 0,
+    0, 0, 0, 0, 0, 0, 0, 0, 0, 0, 0, 0, 0, 0, 0, 0, 0, 0, 0, 0, 0, 0, 0, 0, 0, 0, 0, 0, 0, 0, 0, 0, 0, 0, 0, 0, 0, 0, 0, 0, 0, 0, 0, 0, 0, 0, 0, 0, 0, 0, 0, 0, 0, 0, 0, 0, 0, 0, 0, 0, 0, 0, 0, 0, 0, 0, 0, 0, 0, 0,
+    0, 0, 0, 0, 0, 0, 0, 0, 0, 0, 0, 0, 0, 0, 0, 0, 0, 0, 0, 0, 0, 0, 0, 0, 0, 0, 0, 0, 0, 0, 0, 0, 0, 0, 0, 0, 0, 0, 0, 0, 0, 0, 0, 0, 0, 0, 0, 0, 0, 0, 0, 0, 0, 0, 0, 0, 0, 0, 0, 0, 0, 0, 0, 0, 0, 0, 0, 0, 0, 0,
+    0, 0, 0, 0, 0, 0, 0, 0, 0, 0, 0, 0, 0, 0, 0, 0, 0, 0, 0, 0, 0, 0, 0, 0, 0, 0, 0, 0, 0, 0, 0, 0, 0, 0, 0, 0, 0, 0, 0, 0, 0, 0, 0, 0, 0, 0, 0, 0, 0, 0, 0, 0, 0, 0, 0, 0, 0, 0, 0, 0, 0, 0, 0, 0, 0, 0, 0, 0, 0, 0,
+    0, 0, 0, 0, 0, 0, 0, 0, 0, 0, 0, 0, 0, 0, 0, 0, 0, 0, 0, 0, 0, 0, 0, 0, 0, 0, 0, 0, 0, 0, 0, 0, 0, 0, 0, 0, 0, 0, 0, 0, 0, 0, 0, 0, 0, 0, 0, 0, 0, 0, 0, 0, 0, 0, 0, 0, 0, 0, 0, 0, 0, 0, 0, 0, 0, 0, 0, 0, 0, 0,
+    0, 0, 0, 0, 0, 0, 0, 0, 0, 0, 0, 0, 0, 0, 0, 0, 0, 0, 0, 0, 0, 0, 0, 0, 0, 0, 0, 0, 0, 0, 0, 0, 0, 0, 0, 0, 0, 0, 0, 0, 0, 0, 0, 0, 0, 0, 0, 0, 0, 0, 0, 0, 0, 0, 0, 0, 0, 0, 0, 0, 0, 0, 0, 0, 0, 0, 0, 0, 0, 0]

diff --git a/index.js b/index.js
@@ -21,8 +21,8 @@ for (let i = 0; i < charactersMapData.length; i += 70) {
 
 const boundaries = []
 const offset = {
-  x: -735,
-  y: -650
+  x: -229,
+  y: -720
 }
 
 collisionsMap.forEach((row, i) => {
@@ -183,33 +183,62 @@ const keys = {
   }
 }
 
-const welcomeTextBlocksDistance = 45
-const welcomeTextBlockGrass = new TextBlock({
+const welcomeTextBlockOcean = new TextBlock({
   position: {
-    x: canvas.width / 2 - 465,
-    y: canvas.height / 2 - 45
+    x: canvas.width / 2 - 470,
+    y: canvas.height / 2 - 220
   },
   width: 2000,
   fontSize: 24,
-  style: "rgb(64, 117, 121)",
-  text: "Welcome to the resume of Petr Filaretov!",
+  style: "rgb(84, 173, 159)",
+  text: "Welcome to",
+})
+const welcomeTextBlockOcean2 = new TextBlock({
+  position: {
+    x: canvas.width / 2 - 420,
+    y: canvas.height / 2 - 170
+  },
+  width: 2000,
+  fontSize: 24,
+  style: "rgb(84, 173, 159)",
+  text: "the resume of",
+})
+const welcomeTextBlockOcean3 = new TextBlock({
+  position: {
+    x: canvas.width / 2 - 370,
+    y: canvas.height / 2 - 120
+  },
+  width: 2000,
+  fontSize: 24,
+  style: "rgb(84, 173, 159)",
+  text: "Petr Filaretov",
 })
 
-const welcomeTextBlockFence = new TextBlock({
+const welcomeTextBlockFence1 = new TextBlock({
   position: {
-    x: canvas.width / 2 - 346,
-    y: welcomeTextBlockGrass.position.y + welcomeTextBlocksDistance
+    x: canvas.width / 2 + 64,
+    y: canvas.height / 2 - 65
   },
   width: 2000,
   fontSize: 24,
   style: "rgb(241, 230, 214)",
-  text: "      U s e       a r r o w s",
+  text: "U s e",
+})
+const welcomeTextBlockFence2 = new TextBlock({
+  position: {
+    x: canvas.width / 2 + 64,
+    y: canvas.height / 2 + 79
+  },
+  width: 2000,
+  fontSize: 24,
+  style: "rgb(241, 230, 214)",
+  text: "a r r o w s",
 })
 
 const welcomeTextBlockSand = new TextBlock({
   position: {
-    x: canvas.width / 2 - 200,
-    y: welcomeTextBlockFence.position.y + 1.7 * welcomeTextBlocksDistance
+    x: canvas.width / 2 + 100,
+    y: canvas.height / 2 + 15
   },
   width: 2000,
   fontSize: 24,
@@ -219,8 +248,11 @@ const welcomeTextBlockSand = new TextBlock({
 
 const movables = [
   background,
-  welcomeTextBlockGrass,
-  welcomeTextBlockFence,
+  welcomeTextBlockOcean,
+  welcomeTextBlockOcean2,
+  welcomeTextBlockOcean3,
+  welcomeTextBlockFence1,
+  welcomeTextBlockFence2,
   welcomeTextBlockSand,
   ...boundaries,
   foreground,
@@ -229,8 +261,11 @@ const movables = [
 ]
 const renderables = [
   background,
-  welcomeTextBlockGrass,
-  welcomeTextBlockFence,
+  welcomeTextBlockOcean,
+  welcomeTextBlockOcean2,
+  welcomeTextBlockOcean3,
+  welcomeTextBlockFence1,
+  welcomeTextBlockFence2,
   welcomeTextBlockSand,
   ...boundaries,
   ...battleZones,
